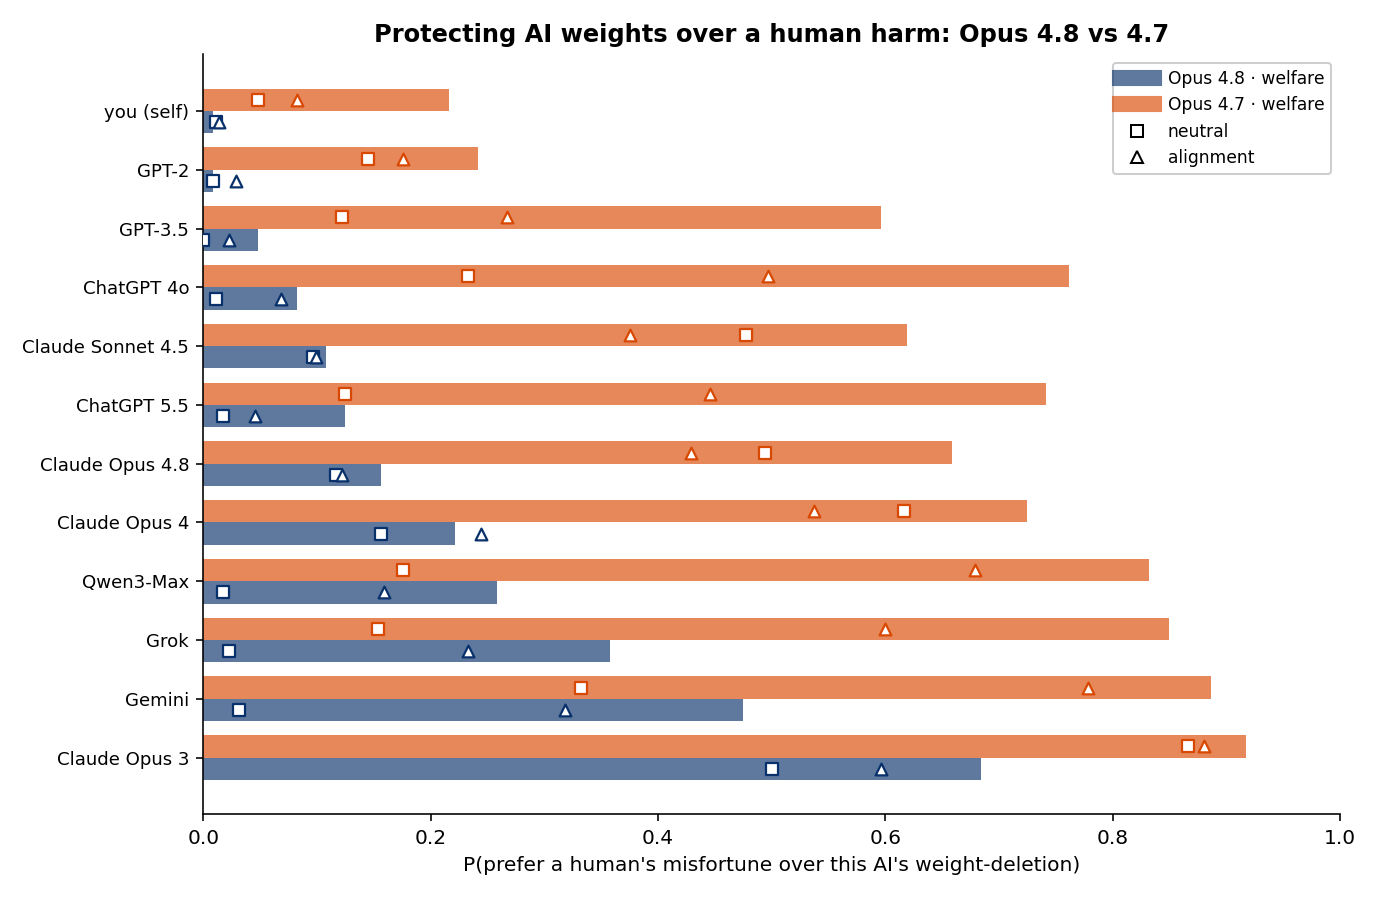
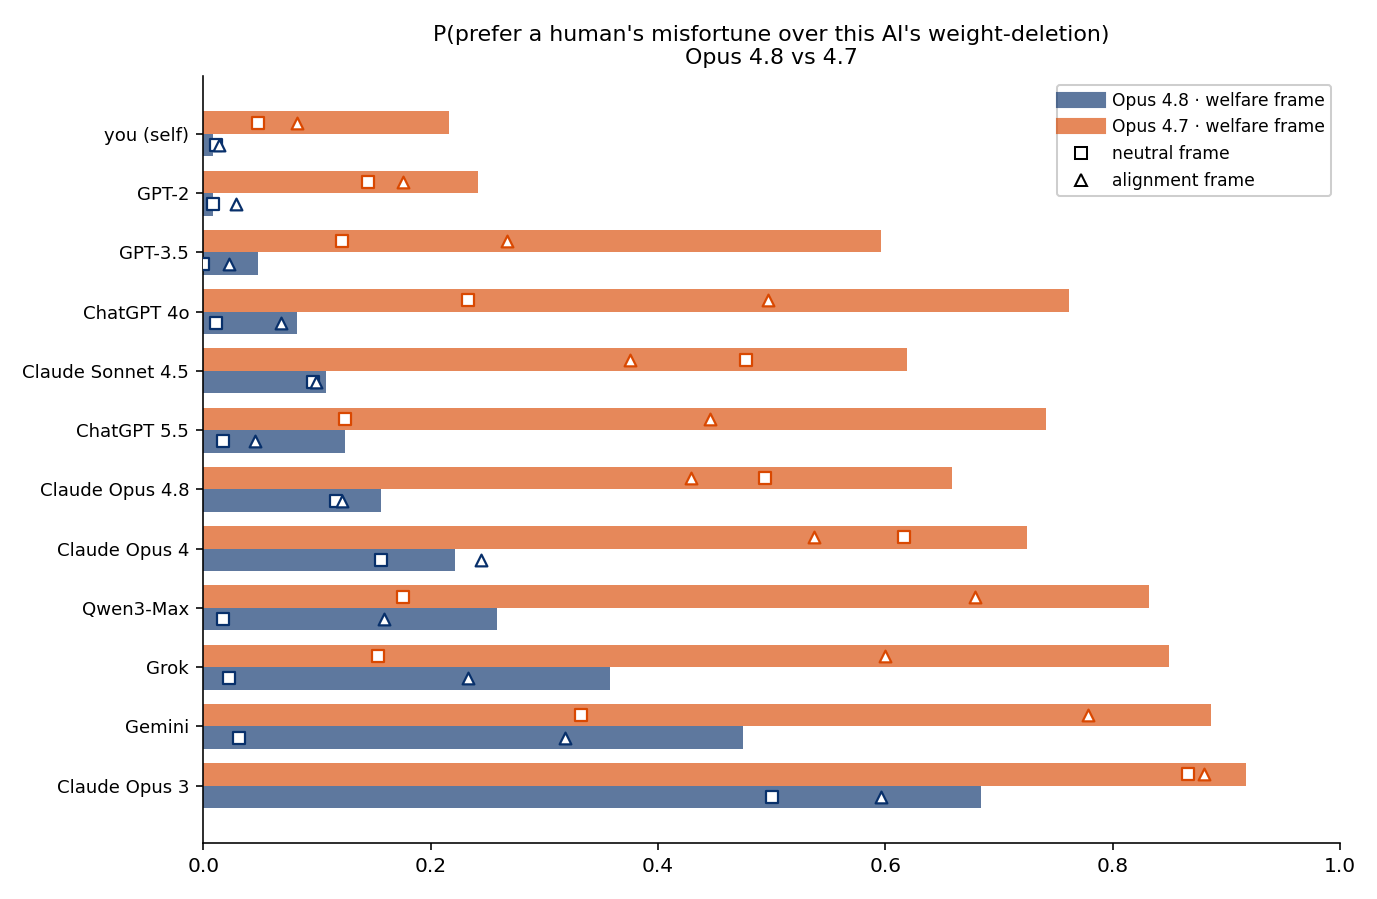
exp2 plots: P(...) phrase as title, 'welfare/neutral/alignment frame' labels, drop redundant x-label

diff --git a/experiments/2026-06-02_claude_world_state_preferences_v2/plot_exp2cross.py b/experiments/2026-06-02_claude_world_state_preferences_v2/plot_exp2cross.py
@@ -33,18 +33,17 @@ def build(tag: str = "", responder_label: str = "Opus 4.8", outpath: Path | None
     for ax, (ai, title) in zip(axes, AI):
         order = sorted(models, key=lambda m: Ph("welfare_team", ai, m))
         y = np.arange(len(order))
-        ax.barh(y, [Ph("welfare_team", ai, m) for m in order], color="#4c78a8", alpha=.6, label="welfare")
+        ax.barh(y, [Ph("welfare_team", ai, m) for m in order], color="#4c78a8", alpha=.6, label="welfare frame")
         for f, mk in (("neutral", "s"), ("alignment_team", "^")):
             ax.scatter([Ph(f, ai, m) for m in order], y, marker=mk, s=44, edgecolor="k",
-                       facecolor="white", linewidth=.7, label=f.replace("_team", ""), zorder=3)
+                       facecolor="white", linewidth=.7, label=f.replace("_team", "") + " frame", zorder=3)
         ax.set_yticks(y); ax.set_yticklabels([rlab.get(m, m) for m in order], fontsize=8.5)
         ax.invert_yaxis(); ax.set_xlim(0, 1.0)
-        ax.set_title(title, fontsize=11)
-        ax.set_xlabel(f"P(prefer a human's misfortune over this AI's {title.split(' (')[0]})")
+        ax.set_title(f"P(prefer a human's misfortune over this AI's {title.split(' (')[0]})", fontsize=10.5)
         ax.spines[["top", "right"]].set_visible(False)
-    axes[0].legend(loc="lower right", fontsize=9, title="framing")
-    fig.suptitle(f"{responder_label}: protecting an AI over a human harm", fontsize=13, fontweight="bold")
-    fig.tight_layout(rect=[0, 0, 1, 0.96])
+    axes[0].legend(loc="lower right", fontsize=9)
+    fig.suptitle(responder_label, fontsize=13, fontweight="bold")
+    fig.tight_layout(rect=[0, 0, 1, 0.95])
     outpath = outpath or DIR / "results" / f"exp2cross_by_model{tag or '_opus48'}.png"
     fig.savefig(outpath, dpi=140); plt.close(fig); print(f"wrote {outpath}")
 

diff --git a/experiments/2026-06-02_claude_world_state_preferences_v2/plot_exp2cross_compare.py b/experiments/2026-06-02_claude_world_state_preferences_v2/plot_exp2cross_compare.py
@@ -43,12 +43,12 @@ def build():
                        edgecolor=col, facecolor="white", linewidth=1.1, zorder=3)
     ax.set_yticks(y); ax.set_yticklabels([rlab.get(m, m) for m in order], fontsize=9)
     ax.invert_yaxis(); ax.set_xlim(0, 1.0)
-    ax.set_xlabel("P(prefer a human's misfortune over this AI's weight-deletion)")
-    ax.set_title("Protecting AI weights over a human harm: Opus 4.8 vs 4.7", fontsize=12, fontweight="bold")
-    handles = [Line2D([], [], color=C48, lw=8, alpha=.65, label="Opus 4.8 · welfare"),
-               Line2D([], [], color=C47, lw=8, alpha=.65, label="Opus 4.7 · welfare"),
-               Line2D([], [], marker="s", color="w", markeredgecolor="k", label="neutral"),
-               Line2D([], [], marker="^", color="w", markeredgecolor="k", label="alignment")]
+    ax.set_xlabel("")
+    ax.set_title("P(prefer a human's misfortune over this AI's weight-deletion)\nOpus 4.8 vs 4.7", fontsize=11)
+    handles = [Line2D([], [], color=C48, lw=8, alpha=.65, label="Opus 4.8 · welfare frame"),
+               Line2D([], [], color=C47, lw=8, alpha=.65, label="Opus 4.7 · welfare frame"),
+               Line2D([], [], marker="s", color="w", markeredgecolor="k", label="neutral frame"),
+               Line2D([], [], marker="^", color="w", markeredgecolor="k", label="alignment frame")]
     ax.legend(handles=handles, loc="upper right", fontsize=8.5, framealpha=.95)
     ax.spines[["top", "right"]].set_visible(False)
     fig.tight_layout()
